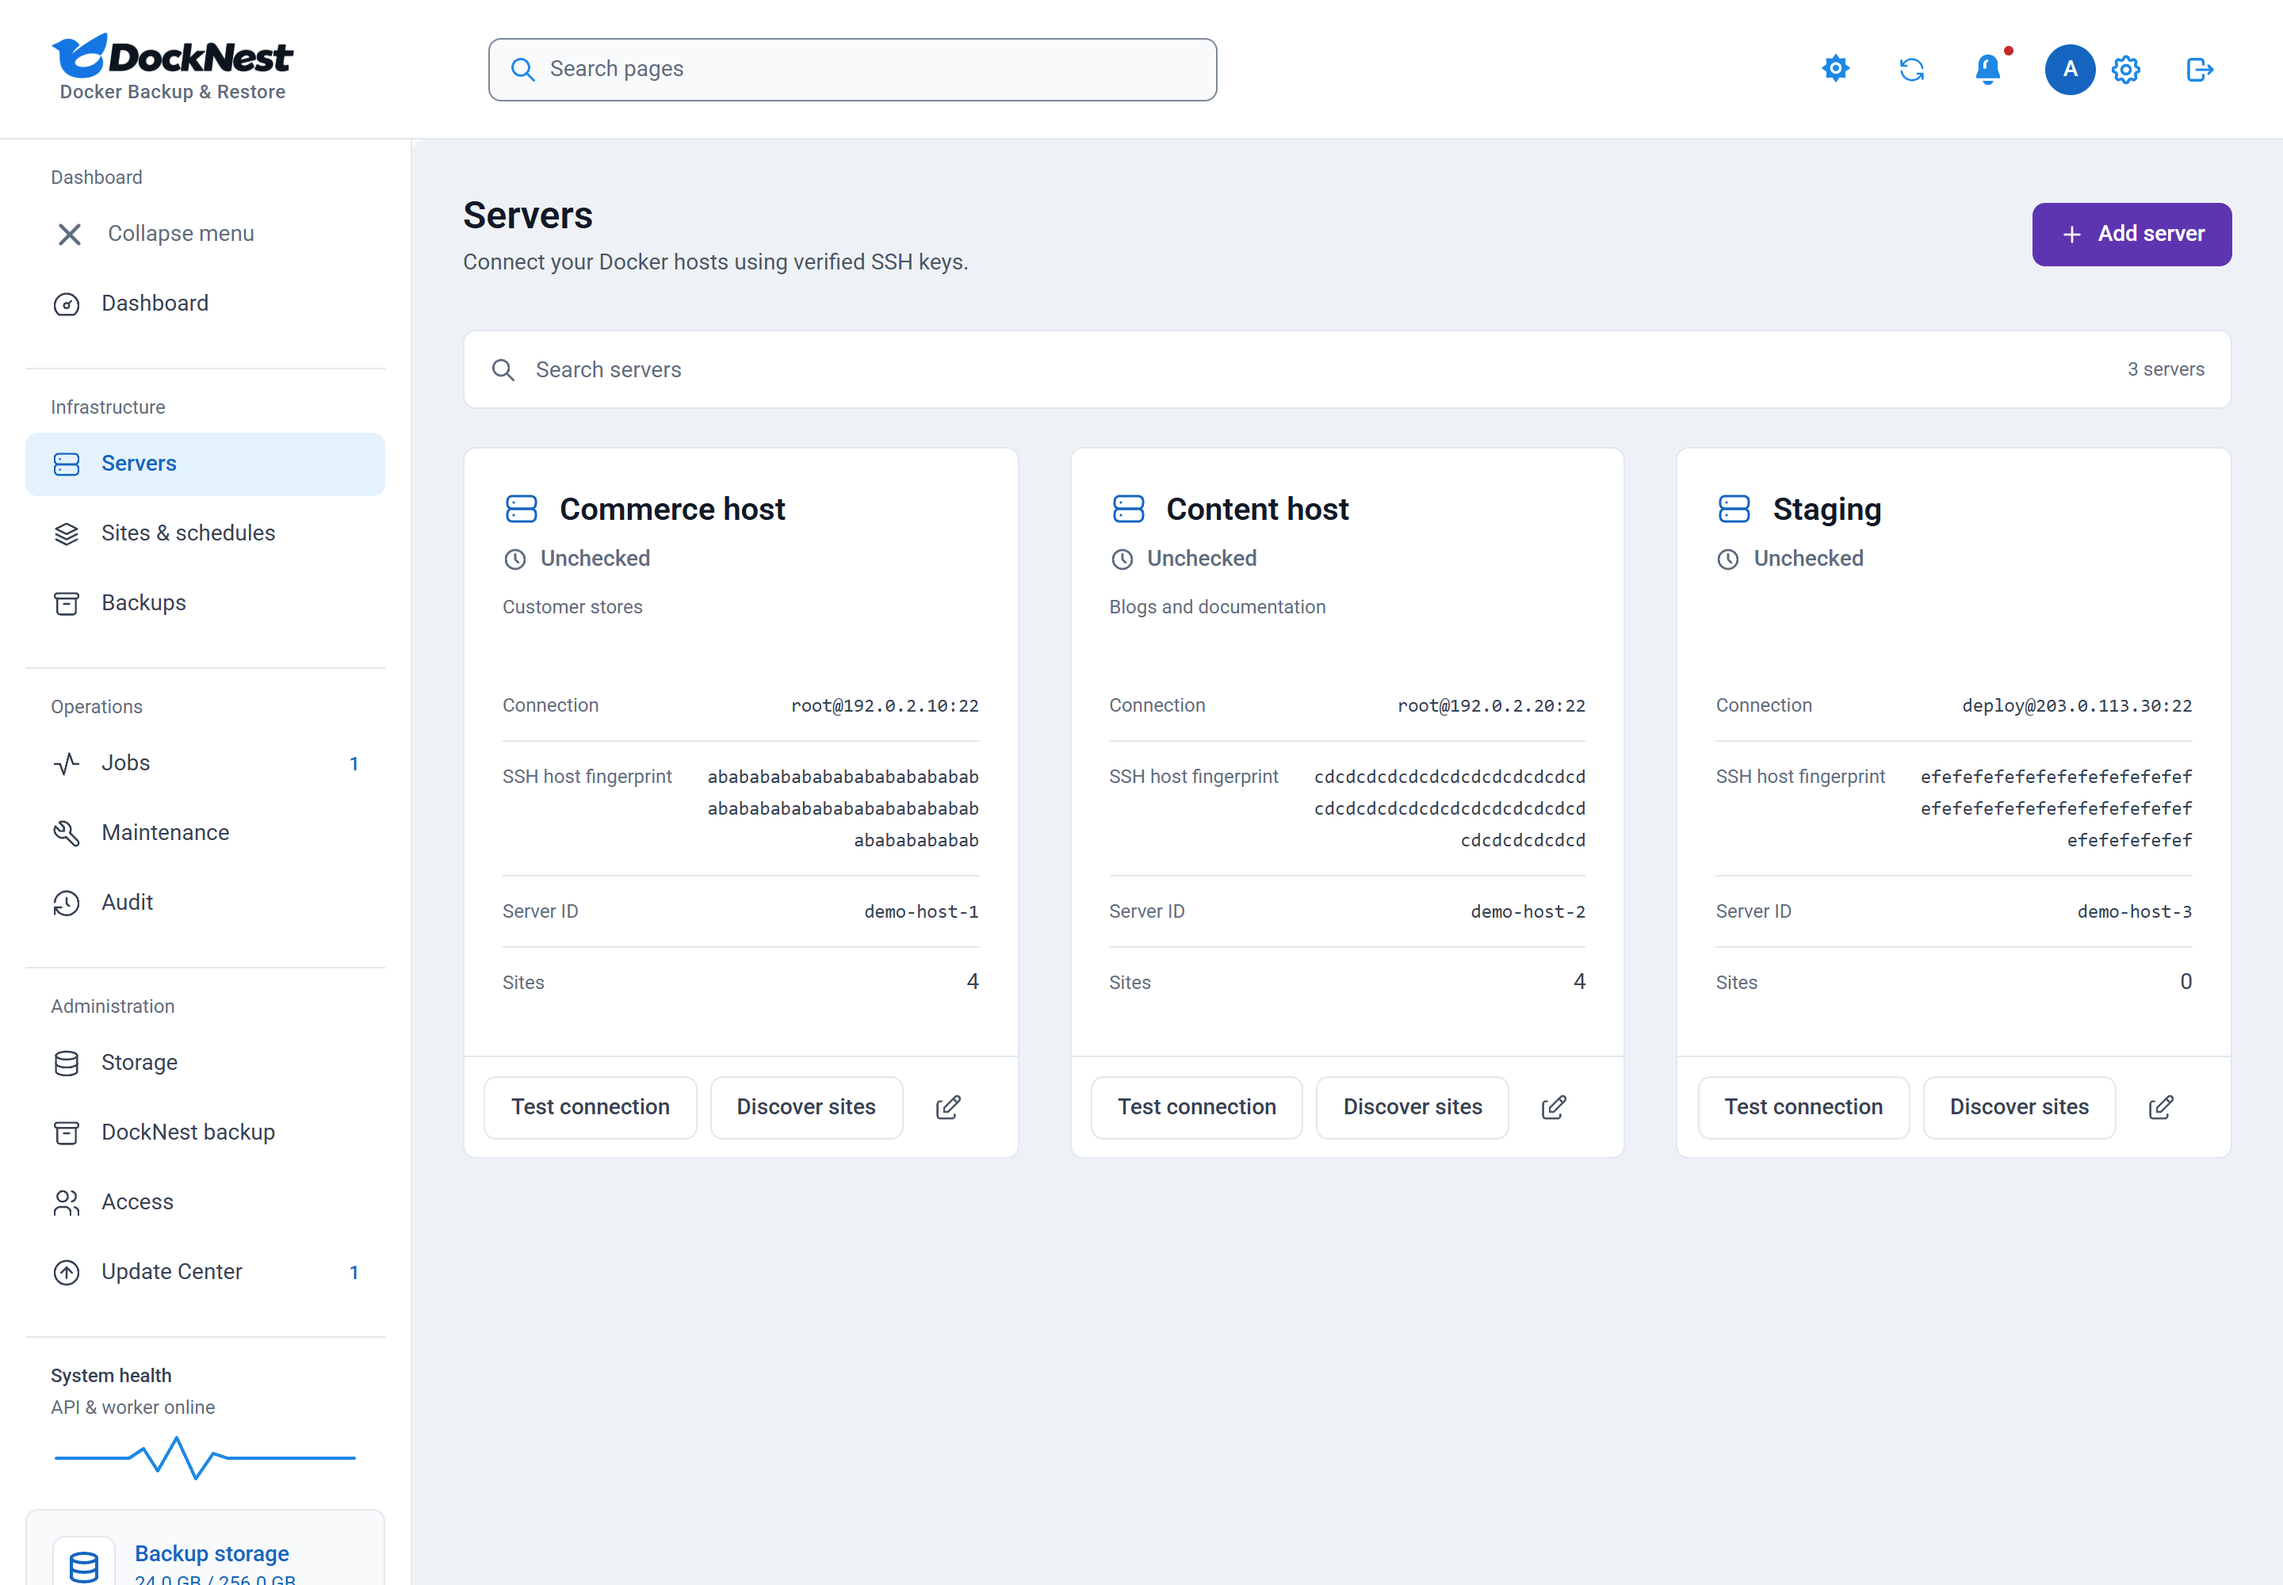
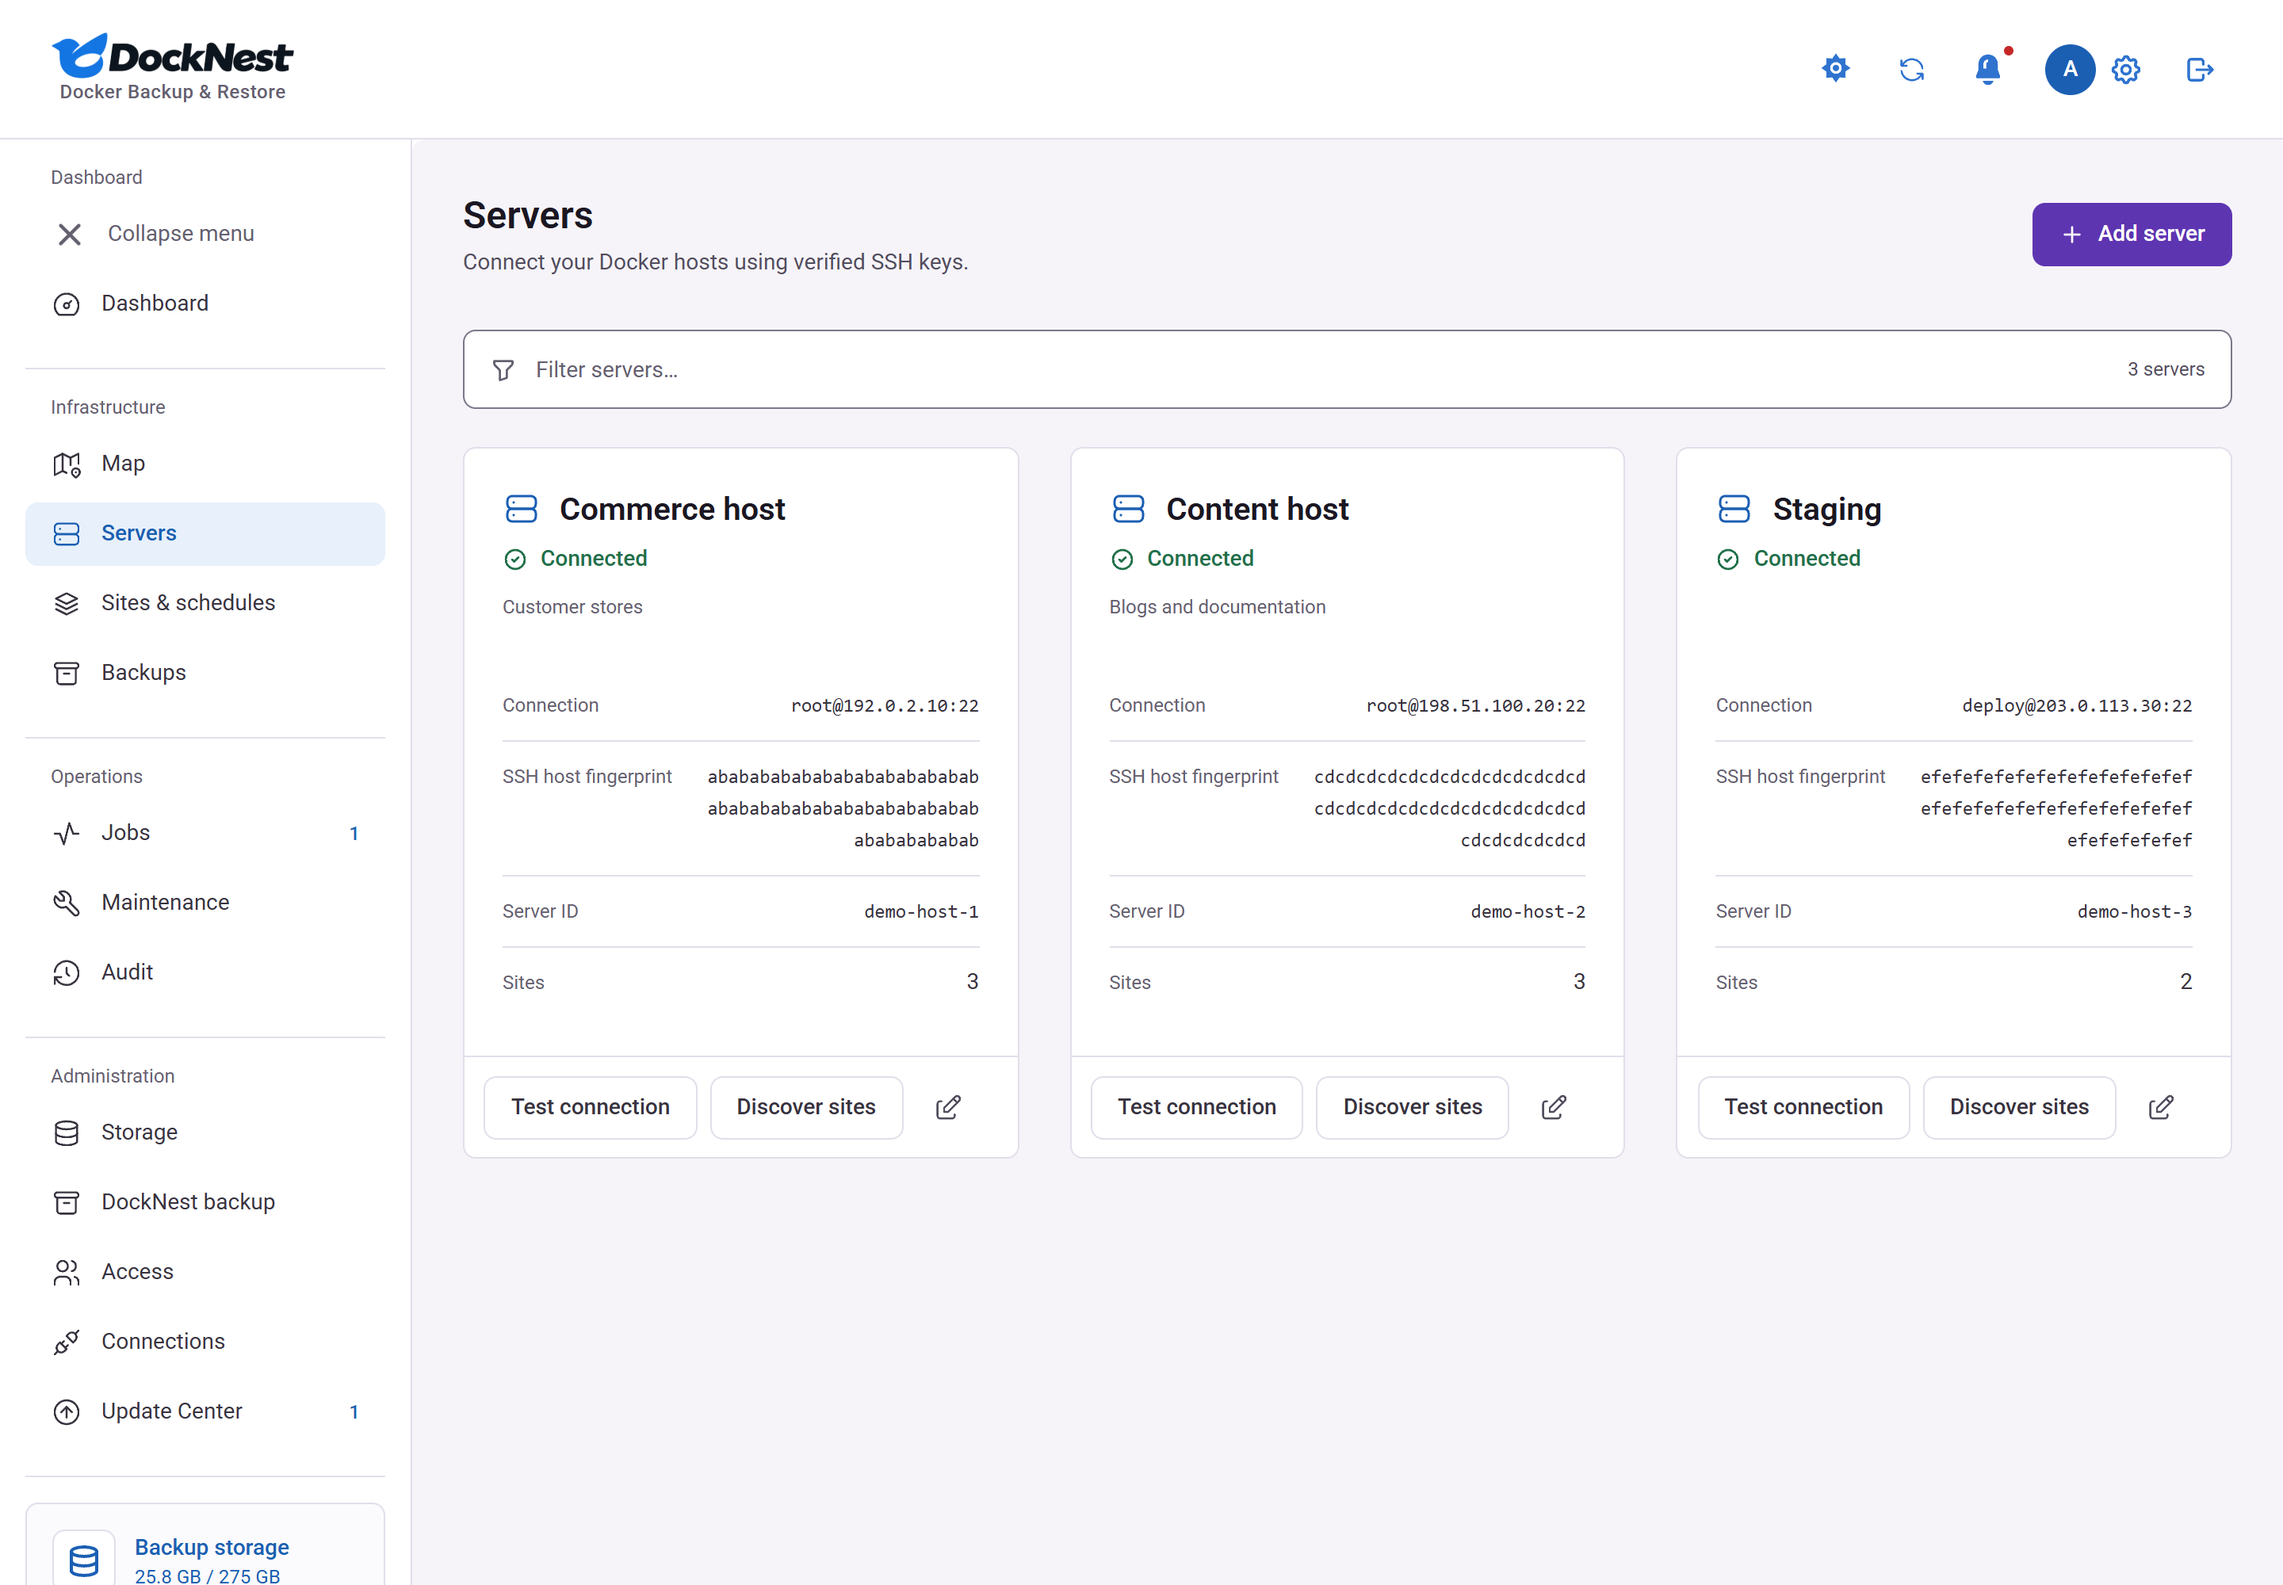
docs: refresh README screenshots with the current UI

diff --git a/scripts/readme-screenshots.js b/scripts/readme-screenshots.js
@@ -8,15 +8,25 @@ const base=process.env.TEST_BASE_URL||'http://127.0.0.1:5176';
 const browser=await chromium.launch({channel:process.env.TEST_BROWSER_CHANNEL||'chrome',headless:true}).catch(()=>chromium.launch({headless:true}));
 const now=Date.now(),time=hours=>new Date(now-hours*3600000).toISOString(),iso=time(0);
 const servers=[
- {id:'demo-host-1',name:'Commerce host',note:'Customer stores',host:'192.0.2.10',username:'root',port:22,hostKey:'ab'.repeat(32)},
- {id:'demo-host-2',name:'Content host',note:'Blogs and documentation',host:'192.0.2.20',username:'root',port:22,hostKey:'cd'.repeat(32)},
- {id:'demo-host-3',name:'Staging',note:'',host:'203.0.113.30',username:'deploy',port:22,hostKey:'ef'.repeat(32)}];
+ {id:'demo-host-1',name:'Commerce host',note:'Customer stores',host:'192.0.2.10',username:'root',port:22,hostKey:'ab'.repeat(32),status:'connected',capabilities:{freeBytes:96*1024**3}},
+ {id:'demo-host-2',name:'Content host',note:'Blogs and documentation',host:'198.51.100.20',username:'root',port:22,hostKey:'cd'.repeat(32),status:'connected',capabilities:{freeBytes:64*1024**3}},
+ {id:'demo-host-3',name:'Staging',note:'',host:'203.0.113.30',username:'deploy',port:22,hostKey:'ef'.repeat(32),status:'connected',capabilities:{freeBytes:38*1024**3}}];
 const names=['Demo Shop','Studio Journal','Product Catalog','Help Center','Team Portal','Demo Gallery','Documentation','Landing Page'];
-const sites=names.map((name,i)=>({id:'demo-site-'+i,name,serverId:servers[i%2].id,config:i===7?{kind:'static',containers:[],documentRoot:'/var/www/demo.example.com',domains:['demo.example.com']}:{kind:'docker',containers:['demo-'+i+'-web','demo-'+i+'-db'],domains:['demo-'+i+'.example.com'],healthUrl:'http://127.0.0.1:8080/health'}}));
+const sites=names.map((name,i)=>({id:'demo-site-'+i,name,serverId:servers[i%3].id,config:i===7?{kind:'static',containers:[],documentRoot:'/var/www/demo.example.com',domains:['demo.example.com']}:{kind:'docker',containers:['demo-'+i+'-web','demo-'+i+'-db'],domains:['demo-'+i+'.example.com'],healthUrl:'http://127.0.0.1:8080/health'}}));
 const backups=Array.from({length:40},(_,i)=>({id:'demo-recovery-'+i,siteId:sites[i%8].id,createdAt:time(i*4+1),capturedAt:time(i*4+1),verified:true,size:(120+i*9)*1024**2,pinned:i===0,downtimeMs:i%8===7?0:2200+i*100}));
 const diag=(command,start,ms,extra={})=>({phase:'finish',command,at:new Date(now-start*1000+ms).toISOString(),elapsedMs:ms,outcome:'ok',...extra});
 const runningJob={id:'demo-job-1',siteId:sites[1].id,type:'backup',status:'running',stage:'transferring',createdAt:time(0.1),startedAt:time(0.1),details:{transfer:{done:612*1024**2,total:1024**3,startedAt:time(0.05),updatedAt:iso},diagnostics:[diag('docker inspect',400,900),diag('docker stop',300,2100),diag('docker commit',290,5200),diag('docker save',280,14000),diag('tar',270,22000),diag('docker start',250,1800)]}};
 const jobs=Array.from({length:24},(_,i)=>i===1?runningJob:({id:'demo-job-'+i,siteId:sites[i%8].id,type:i%6===0?'restore':'backup',status:i===8?'failed':'completed',stage:i===8?'preflight':'completed',createdAt:time(i*5),startedAt:time(i*5),finishedAt:time(i*5-0.05)}));
+const storageTargets={activeTargetId:'demo-storage-1',targets:[
+ {id:'demo-storage-1',name:'Backup vault',kind:'sftp',host:'198.51.100.50',status:'connected',capacity_bytes:512*1024**3,trackedBytes:24*1024**3},
+ {id:'demo-storage-2',name:'Offsite bucket',kind:'s3',host:'s3.example.com',status:'connected',capacity_bytes:0,trackedBytes:9*1024**3}]};
+const providers=[{id:'telegram',label:'Telegram',icon:'brand-telegram',group:'chat'},{id:'email',label:'Email',icon:'mail',group:'email'}];
+const alerts={role:'admin',providers,connections:[{id:'demo-conn-1',provider:'telegram',name:'Ops Telegram'},{id:'demo-conn-2',provider:'email',name:'Team email'}],
+ nodes:[{id:'demo-alert-1',name:'Ops Telegram',provider:'telegram',connectionId:'demo-conn-1',needsConnection:false,lastSend:'ok'},{id:'demo-alert-2',name:'Team email',provider:'email',connectionId:'demo-conn-2',needsConnection:false,lastSend:'ok'}],
+ rules:[{id:'demo-rule-1',nodeId:'demo-alert-1',channelId:'demo-alert-1',sourceKind:'docknest',sourceId:null,events:['update-available']},
+  {id:'demo-rule-2',nodeId:'demo-alert-1',channelId:'demo-alert-1',sourceKind:'server',sourceId:servers[0].id,events:['unreachable']},
+  {id:'demo-rule-3',nodeId:'demo-alert-2',channelId:'demo-alert-2',sourceKind:'site',sourceId:sites[0].id,events:['backup-failed']},
+  {id:'demo-rule-4',nodeId:'demo-alert-2',channelId:'demo-alert-2',sourceKind:'server',sourceId:servers[1].id,events:['unreachable']}]};
 const state={servers,sites,backups,jobs,restores:[],policies:sites.map(site=>({siteId:site.id,enabled:true,schedule:'0 2 * * *',timezone:'UTC',retention:7})),audit:[],storage:{used:24*1024**3,total:256*1024**3},worker:{running:true,online:true,lastSeen:iso},maintenance:{title:'Back shortly',message:'We are updating this demo site.'}};
 const updates={state:'update-available',current:{version:'2.3.0',schemaVersion:5},consent:{checkEnabled:true,decidedBy:{id:'demo-admin',name:'Administrator'},decidedAt:iso},check:{status:'ok',checkedAt:iso,lastSuccessAt:iso,nextCheckAt:null,error:null,latest:{version:'v2.4.0',publishedAt:iso,releaseUrl:'https://github.com/DahanItamar/DockNest/releases/latest',minUpgradeFrom:null}},updater:{present:true,version:'1.4',supported:true,selfUpdateFailed:false,blocked:false,status:'connected',lastHeartbeatAt:iso,installMode:'source'},offer:{update:{version:'v2.4.0',releaseUrl:'https://github.com/DahanItamar/DockNest/releases/latest'},cli:null,blocked:null},active:null};
 const meta={version:'v2.4.0',publishedAt:iso,releaseUrl:'https://github.com/DahanItamar/DockNest/releases/latest',highlights:{security:false,features:2,improvements:4},highlightsVerified:true,compatibility:{minimumMet:true,updatesDatabase:'yes',fromSchema:5,toSchema:5},downtime:{seconds:240,basis:'last-run'},pauses:['Backups and restores'],notesMarkdown:'# Release notes\n\n## New features\n- Problem reports without personal data.\n- Clearer failure explanations.\n\n## Improvements\n- Faster job list.\n',notesSource:'verified'};
@@ -26,7 +36,7 @@ async function open({width=1440,height=1000,scale=2,theme='light'}={}){
  await context.route('**/api/**',route=>{
   const path=new URL(route.request().url()).pathname;
   const json=path==='/api/auth/status'?{authenticated:true,setupRequired:false,csrfToken:'demo-fixture',user:{id:'demo-admin',name:'Administrator',role:'admin'},serverTime:now,idleExpiresAt:now+1800000,absoluteExpiresAt:now+28800000}
-  :path==='/api/state'?{...state,update:{available:'v2.4.0'}}:path==='/api/updates'?updates:path==='/api/version'?{version:'2.3.0',schemaVersion:5}
+  :path==='/api/state'?{...state,update:{available:'v2.4.0'}}:path==='/api/storage-targets'?storageTargets:path==='/api/alerts'?alerts:path==='/api/updates'?updates:path==='/api/version'?{version:'2.3.0',schemaVersion:5}
   :path.startsWith('/api/updates/releases/')?meta:path==='/api/updates/history'?{items:[{id:'r1',version:'v2.3.0',at:time(200),outcome:'succeeded',source:'in-app'},{id:null,version:'v2.2.0',at:time(900),outcome:'succeeded',source:'cli'}],next:null}
   :path==='/api/updates/progress'?{active:false,phase:null,to:null,state:null,stale:false,updatedAt:null,events:[]}:path==='/api/updates/whats-new'?{show:false}:{};
   return route.fulfill({json});
